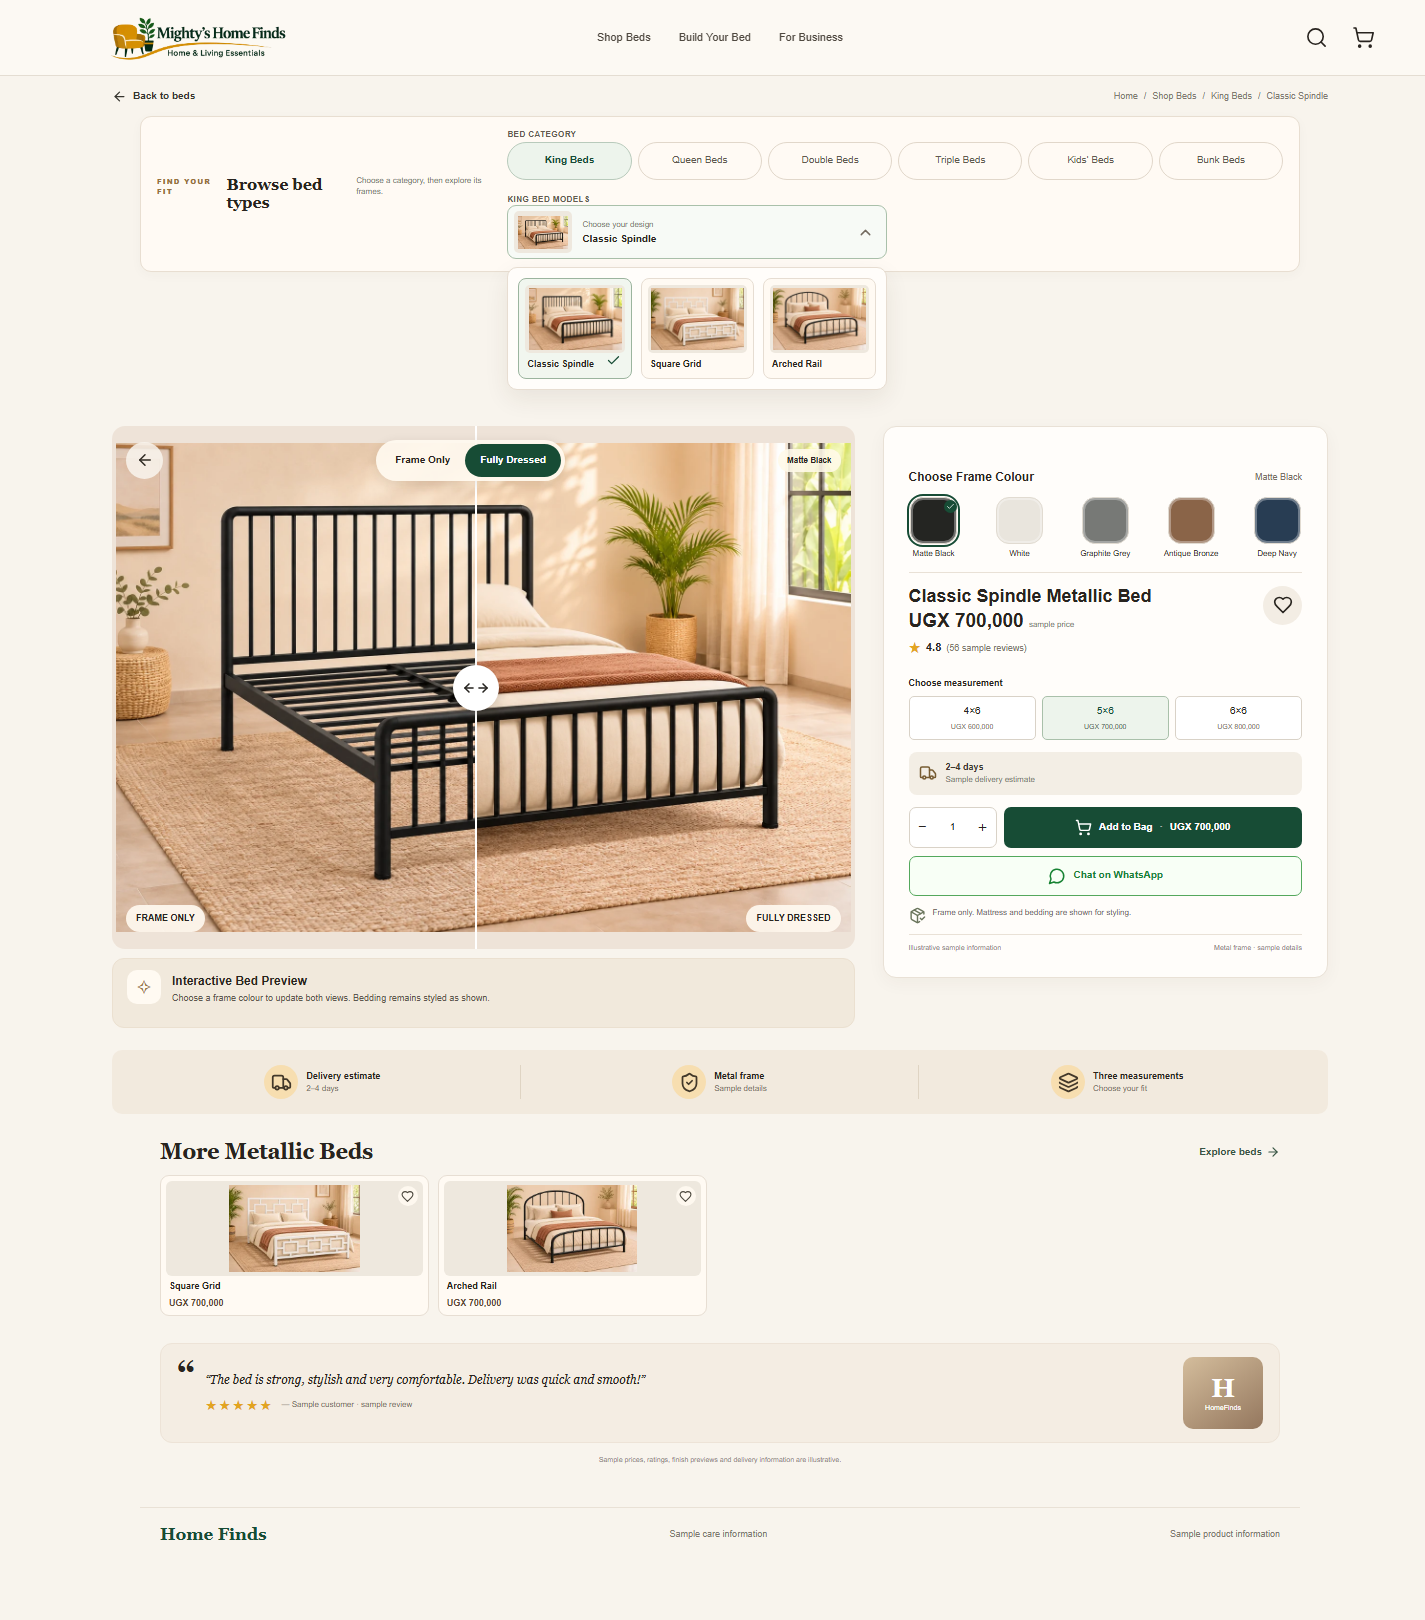
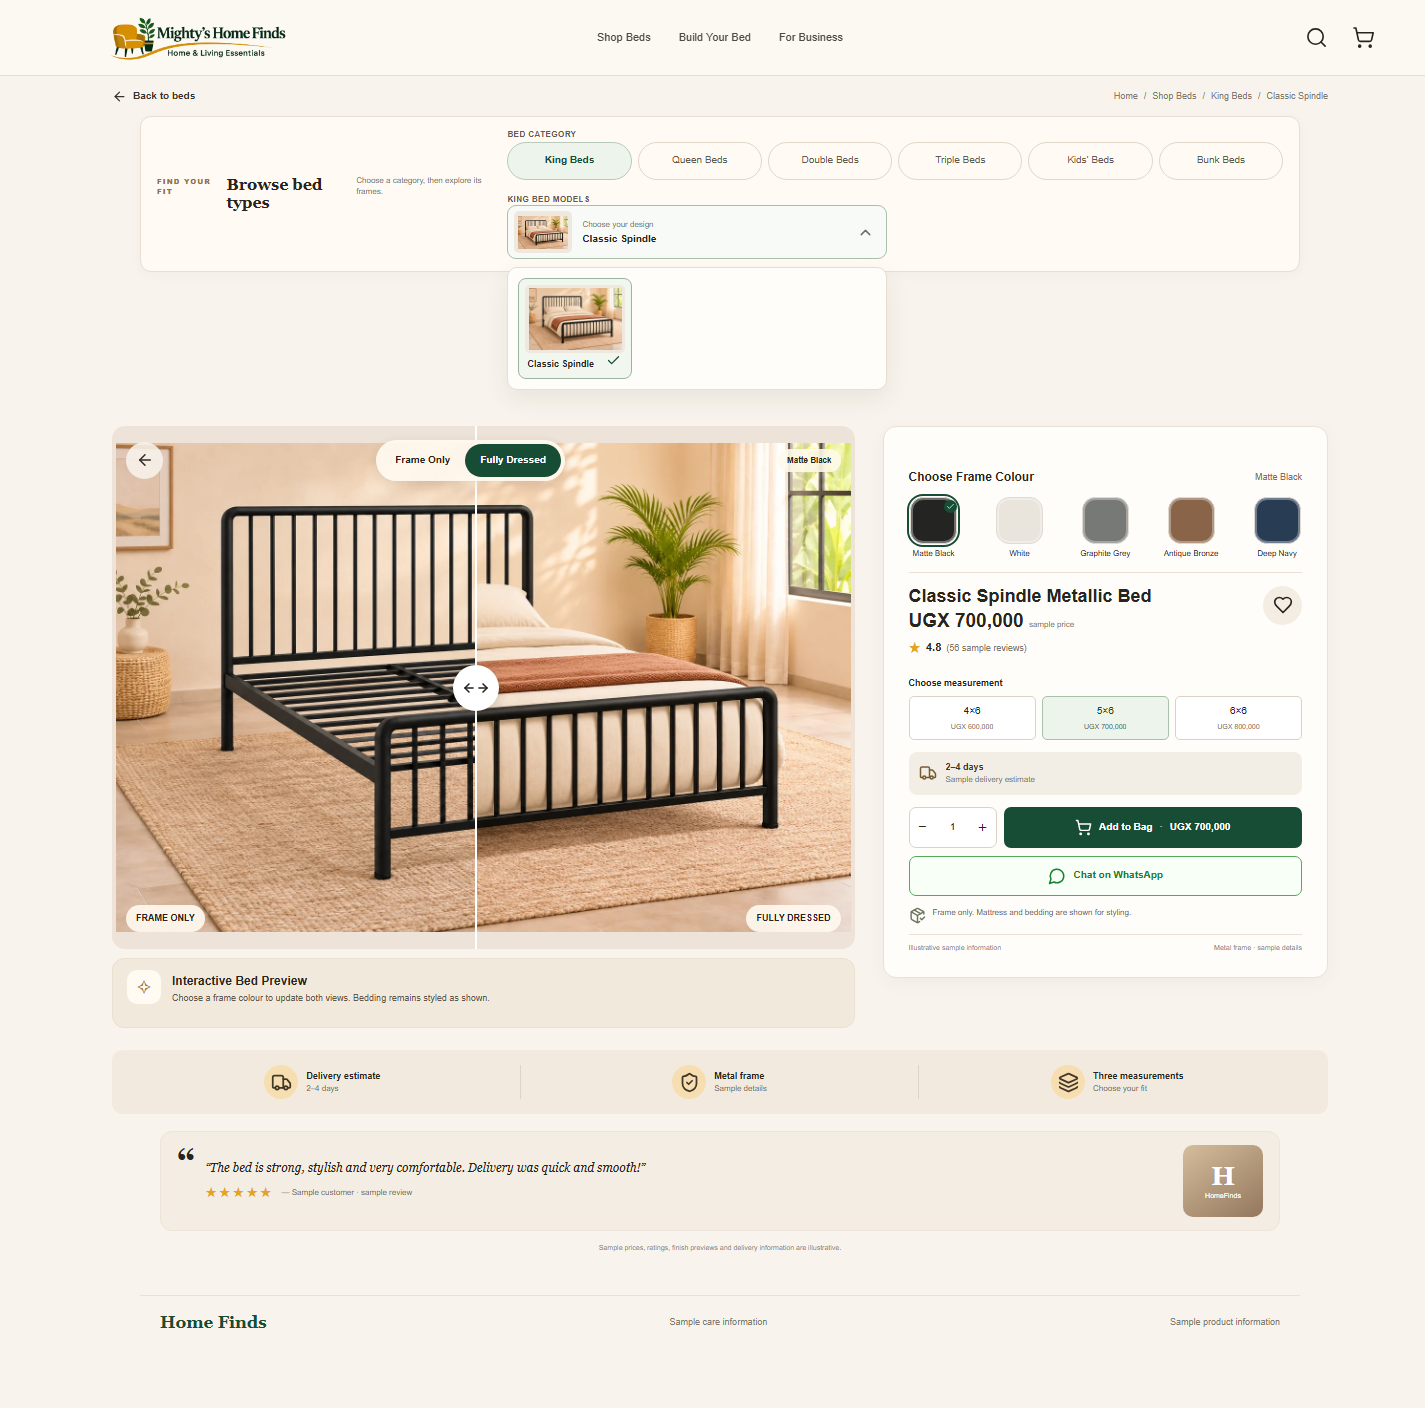
Polish bed configurator and add double bed model

diff --git a/lib/sample-data.ts b/lib/sample-data.ts
@@ -35,10 +35,9 @@ export const bedMeasurements = [
 export type BedMeasurementId = (typeof bedMeasurements)[number]["id"];
 export const DEFAULT_BED_MEASUREMENT: BedMeasurementId = "5x6";
 export const bedMeasurementPrice = (id: BedMeasurementId) =>
-  bedMeasurements.find((item) => item.id === id)?.price ??
-  bedMeasurements[1].price;
+  bedMeasurements.find((item) => item.id === id)?.price ?? bedMeasurements[1].price;
 
-// Every displayed product detail below is illustrative prototype content.
+// All customer-facing product and commercial details in this file are sample content.
 export const sampleFinishes: Finish[] = [
   { id: "matte-black", name: "Matte Black", hex: "#242522" },
   { id: "white", name: "White", hex: "#e9e5dd" },
@@ -58,11 +57,7 @@ export const products: BedProduct[] = [
     reviews: 56,
     description: "A timeless vertical-rail silhouette with clean, airy lines.",
     frame: getCatalogVariantImage("classic-spindle", "matte-black", "frame"),
-    dressed: getCatalogVariantImage(
-      "classic-spindle",
-      "matte-black",
-      "dressed",
-    ),
+    dressed: getCatalogVariantImage("classic-spindle", "matte-black", "dressed"),
     image: getCatalogVariantImage("classic-spindle", "matte-black", "dressed"),
     configuratorDesign: "classic-spindle",
     colorName: "Matte Black",
@@ -99,11 +94,10 @@ export const products: BedProduct[] = [
     slug: "arched-rail",
     name: "Arched Rail Metallic Bed",
     shortName: "Arched Rail",
-    category: "Bunk Beds",
+    category: "Double Beds",
     rating: "4.8",
     reviews: 41,
-    description:
-      "Softly curved rails bring a graceful touch to this sample design.",
+    description: "Softly curved rails bring a graceful touch to this sample design.",
     frame: getCatalogVariantImage("arched-rail", "matte-black", "frame"),
     dressed: getCatalogVariantImage("arched-rail", "matte-black", "dressed"),
     image: getCatalogVariantImage("arched-rail", "matte-black", "dressed"),
@@ -116,6 +110,27 @@ export const products: BedProduct[] = [
     care: "Sample care information",
     alt: "Arched rail bed frame shown with sample bedding",
   },
+  {
+    id: "double-lowline",
+    slug: "double-lowline",
+    name: "Lowline Platform Double Bed",
+    shortName: "Lowline Platform",
+    category: "Double Beds",
+    rating: "4.8",
+    reviews: 24,
+    description: "A low, broad horizontal-rail frame with a distinct profile.",
+    frame: getCatalogVariantImage("double-lowline", "matte-black", "frame"),
+    dressed: getCatalogVariantImage("double-lowline", "matte-black", "dressed"),
+    image: getCatalogVariantImage("double-lowline", "matte-black", "dressed"),
+    configuratorDesign: "double-lowline",
+    colorName: "Matte Black",
+    finishes: sampleFinishes,
+    delivery: "2\u20134 days",
+    included: "Frame only. Mattress and bedding are shown for styling.",
+    material: "Metal frame \u00B7 sample details",
+    care: "Sample care information",
+    alt: "Lowline platform double bed with broad horizontal metal rails",
+  },
 ];
 
 export const categories = [
@@ -124,7 +139,7 @@ export const categories = [
     name: "King Beds",
     chipLabel: "King Beds",
     href: "/products/classic-spindle?category=king-beds",
-    modelIds: ["classic", "queen", "bunk"],
+    modelIds: ["classic"],
     defaultProductId: "classic",
     modelHeading: "King Bed Models",
     image: "/assets/category-media/king-beds.png",
@@ -136,7 +151,7 @@ export const categories = [
     name: "Queen Beds",
     chipLabel: "Queen Beds",
     href: "/products/square-grid?category=queen-beds",
-    modelIds: ["queen", "classic", "bunk"],
+    modelIds: ["queen"],
     defaultProductId: "queen",
     modelHeading: "Queen Bed Models",
     image: "/assets/category-media/queen-beds.png",
@@ -147,9 +162,9 @@ export const categories = [
     slug: "double-beds",
     name: "Double Beds",
     chipLabel: "Double Beds",
-    href: "/products/classic-spindle?category=double-beds",
-    modelIds: ["classic", "queen"],
-    defaultProductId: "classic",
+    href: "/products/double-lowline?category=double-beds",
+    modelIds: ["double-lowline", "bunk"],
+    defaultProductId: "double-lowline",
     modelHeading: "Double Bed Models",
     image: "/assets/category-media/double-beds-1.png",
     alternateImage: "/assets/category-media/double-beds-2.png",
@@ -159,20 +174,20 @@ export const categories = [
     slug: "triple-beds",
     name: "Triple Beds",
     chipLabel: "Triple Beds",
-    href: "/products/arched-rail?category=triple-beds",
-    modelIds: ["bunk", "queen"],
-    defaultProductId: "bunk",
+    href: "/products/classic-spindle?category=triple-beds",
+    modelIds: [],
+    defaultProductId: "classic",
     modelHeading: "Triple Bed Models",
     image: "/assets/category-media/triple-beds-1.png",
     alternateImage: "/assets/category-media/triple-beds-2.png",
-    alt: "Generated three-sleeper triple-bunk category concept; illustrative only",
+    alt: "Generated triple-bed concept image; illustrative only",
   },
   {
     slug: "kids-beds",
     name: "Kids\u2019 Beds",
     chipLabel: "Kids\u2019 Beds",
-    href: "/products/arched-rail?category=kids-beds",
-    modelIds: ["classic", "bunk"],
+    href: "/products/classic-spindle?category=kids-beds",
+    modelIds: [],
     defaultProductId: "classic",
     modelHeading: "Kids\u2019 Bed Models",
     image: "/assets/category-media/kids-beds.png",
@@ -183,15 +198,16 @@ export const categories = [
     slug: "bunk-beds",
     name: "Bunk Beds",
     chipLabel: "Bunk Beds",
-    href: "/products/arched-rail?category=bunk-beds",
-    modelIds: ["bunk", "queen", "classic"],
-    defaultProductId: "bunk",
+    href: "/products/classic-spindle?category=bunk-beds",
+    modelIds: [],
+    defaultProductId: "classic",
     modelHeading: "Bunk Bed Models",
     image: "/assets/category-media/bunk-beds.png",
     alternateImage: "/assets/category-media/bunk-beds-2.png",
     alt: "Generated two-level bunk bed category concept",
   },
 ] as const;
+
 export const benefits = [
   { icon: "truck", title: "Delivery", detail: "2\u20134 days" },
   { icon: "shield", title: "Strong & Durable", detail: "Metal frame" },
@@ -200,13 +216,10 @@ export const benefits = [
 ];
 
 export const sampleReview = {
-  quote:
-    "The bed is strong, stylish and very comfortable. Delivery was quick and smooth!",
+  quote: "The bed is strong, stylish and very comfortable. Delivery was quick and smooth!",
   author: "Sample customer",
   stars: 5,
 };
 
 export const formatUGX = (amount: number) =>
   `UGX ${amount.toLocaleString("en-UG")}`;
-
-

diff --git a/components/product-experience.tsx b/components/product-experience.tsx
@@ -34,6 +34,10 @@ import {
 import { getCatalogVariantImage, type FinishId } from "@/lib/bed-color-variants";
 
 type ViewMode = "compare" | "frame" | "dressed";
+const categoryHasModel = (
+  category: (typeof categories)[number],
+  productId: string,
+) => (category.modelIds as readonly string[]).includes(productId);
 
 export function ProductExperience({
   product: initialProduct,
@@ -47,6 +51,14 @@ export function ProductExperience({
   const { addItem } = useCart();
   const [productId, setProductId] = useState(initialProduct.id);
   const [activeCategorySlug, setActiveCategorySlug] = useState(categorySlug);
+  const [categoryUnavailable, setCategoryUnavailable] = useState(() => {
+    const initialCategory = categories.find(
+      (item) => item.slug === categorySlug,
+    );
+    return Boolean(
+      initialCategory && !categoryHasModel(initialCategory, initialProduct.id),
+    );
+  });
   const product =
     products.find((item) => item.id === productId) ?? initialProduct;
   const activeCategory =
@@ -81,6 +93,7 @@ export function ProductExperience({
   const modelChoices = activeCategory.modelIds
     .map((id) => products.find((item) => item.id === id))
     .filter((item): item is BedProduct => Boolean(item));
+  const relatedModels = modelChoices.filter((item) => item.id !== product.id);
   const unitPrice = bedMeasurementPrice(selectedMeasurement);
   const total = unitPrice * quantity;
   function selectModel(
@@ -93,6 +106,7 @@ export function ProductExperience({
       ) ?? nextProduct.finishes[0];
     setActiveCategorySlug(nextCategorySlug);
     setProductId(nextProduct.id);
+    setCategoryUnavailable(false);
     setFinishId(nextFinish.id);
     setQuantity(1);
     setDesignPickerOpen(false);
@@ -103,7 +117,13 @@ export function ProductExperience({
     const category = categories.find((item) => item.slug === slug);
     if (!category) return;
     const next = products.find((item) => item.id === category.defaultProductId);
-    if (next) selectModel(next, category.slug);
+    if (next && categoryHasModel(category, next.id)) {
+      selectModel(next, category.slug);
+      return;
+    }
+    setActiveCategorySlug(category.slug);
+    setCategoryUnavailable(true);
+    setDesignPickerOpen(false);
   }
   function addToCart() {
     addItem({
@@ -166,6 +186,11 @@ export function ProductExperience({
           </div>
           <div className="bed-selector-group model-selector">
             <strong>{activeCategory.modelHeading}</strong>
+            {modelChoices.length === 0 ? (
+              <p className="category-models-unavailable">
+                Matched bed previews for this category are being prepared.
+              </p>
+            ) : (
             <div className="design-picker">
               <button
                 type="button"
@@ -208,8 +233,21 @@ export function ProductExperience({
                 </div>
               )}
             </div>
+            )}
           </div>
         </section>
+        {categoryUnavailable ? (
+          <section className="category-preview-unavailable" aria-live="polite">
+            <span className="preview-placeholder-icon"><Layers3 size={23} /></span>
+            <h1>{activeCategory.name}</h1>
+            <p>
+              We don’t yet have category-matched frame-only and dressed preview
+              images for this bed type. Choose King, Queen, or Double to explore
+              the available sample bed designs.
+            </p>
+          </section>
+        ) : (
+          <>
         <section className="product-layout">
           <div className="product-visual-column">
             <div
@@ -473,7 +511,7 @@ export function ProductExperience({
             </p>
           </div>
         </section>
-        <section className="related-section">
+        {relatedModels.length > 0 && <section className="related-section">
           <div className="section-title">
             <h2>More Metallic Beds</h2>
             <Link href="/products/classic-spindle?category=king-beds">
@@ -481,9 +519,7 @@ export function ProductExperience({
             </Link>
           </div>
           <div className="related-row">
-            {products
-              .filter((item) => item.id !== product.id)
-              .map((item) => (
+            {relatedModels.map((item) => (
                 <button
                   type="button"
                   onClick={() =>
@@ -509,7 +545,7 @@ export function ProductExperience({
                 </button>
               ))}
           </div>
-        </section>
+        </section>}
         <section className="review-card">
           <div className="review-quote-mark">“</div>
           <div className="review-copy">
@@ -528,10 +564,12 @@ export function ProductExperience({
           Sample prices, ratings, finish previews and delivery information are
           illustrative.
         </div>
+          </>
+        )}
       </main>
       <footer className="site-footer">
         <Link href="/">Home Finds</Link>
-        <span>{product.care}</span>
+        <span>{categoryUnavailable ? "Sample category previews" : product.care}</span>
         <span>Sample product information</span>
       </footer>
       <MobileNav />

diff --git a/lib/bed-color-variants.ts b/lib/bed-color-variants.ts
@@ -1,9 +1,9 @@
-export type BedDesignId = "classic-spindle" | "square-grid" | "arched-rail";
+export type BedDesignId = "classic-spindle" | "square-grid" | "arched-rail" | "double-lowline";
 export type FinishId = "matte-black" | "white" | "graphite-grey" | "antique-bronze" | "deep-navy";
 export type BedImageState = "frame" | "dressed";
 
 /** Exact generated sample paths; every state and finish uses its corresponding image asset. */
-export const bedCatalogVariants: Record<BedDesignId, Record<FinishId, Record<BedImageState, string>>> = {
+export const bedCatalogVariants: Record<Exclude<BedDesignId, "double-lowline">, Record<FinishId, Record<BedImageState, string>>> = {
   "classic-spindle": {
     "matte-black": { frame: "classic-spindle-matte-black-frame.webp", dressed: "classic-spindle-matte-black-dressed.webp" },
     white: { frame: "classic-spindle-white-frame.webp", dressed: "classic-spindle-white-dressed.webp" },
@@ -27,5 +27,9 @@ export const bedCatalogVariants: Record<BedDesignId, Record<FinishId, Record<Bed
   },
 };
 
-export const getCatalogVariantImage = (design: BedDesignId, finish: FinishId, state: BedImageState) =>
-  `/assets/bed-catalog-variants/${bedCatalogVariants[design][finish][state]}`;
+export const getCatalogVariantImage = (design: BedDesignId, finish: FinishId, state: BedImageState) => {
+  if (design === "double-lowline") {
+    return `/assets/bed-catalog-variants/double-lowline-${finish}-${state}.png`;
+  }
+  return `/assets/bed-catalog-variants/${bedCatalogVariants[design][finish][state]}`;
+};

diff --git a/app/globals.css b/app/globals.css
@@ -266,4 +266,10 @@ body.cart-drawer-open { overflow: hidden; }
 }
 .category-photo{isolation:isolate}
 .category-concept-badge{position:absolute;z-index:2;left:7px;top:7px;padding:4px 7px;border:1px solid #fff9;border-radius:12px;background:#fffaf0e8;color:#5b482f;font-size:7px;font-weight:700;letter-spacing:.25px;text-transform:uppercase}
+.category-models-unavailable{margin:0;max-width:380px;padding:12px 14px;border:1px dashed #d5c9b8;border-radius:9px;background:#f8f3ea;color:#6b6256;font-size:10px;line-height:1.45}
+.category-preview-unavailable{max-width:1160px;min-height:260px;margin:0 auto 24px;padding:42px 24px;display:grid;place-items:center;align-content:center;text-align:center;border:1px solid #e7ddd1;border-radius:12px;background:linear-gradient(140deg,#fffaf3,#f2ebdf);color:#51483c}
+.preview-placeholder-icon{width:48px;height:48px;display:grid;place-items:center;border-radius:50%;background:#e9ddc9;color:#7b5b2e}
+.category-preview-unavailable h1{margin:13px 0 5px;font:600 27px/1.15 var(--serif);color:var(--espresso)}
+.category-preview-unavailable p{max-width:470px;margin:0;font-size:12px;line-height:1.6;color:#766e64}
+@media(max-width:760px){.category-preview-unavailable{min-height:230px;margin:0 12px 24px;padding:28px 20px}.category-preview-unavailable h1{font-size:23px}.category-preview-unavailable p{font-size:11px}}
 

diff --git a/public/assets/bed-catalog-variants/README.md b/public/assets/bed-catalog-variants/README.md
@@ -5,3 +5,5 @@ Prototype image set mirrored from `plan/assets/bed-catalog-variants/`.
 There are three designs (`classic-spindle`, `square-grid`, `arched-rail`), five finishes (`matte-black`, `white`, `graphite-grey`, `antique-bronze`, `deep-navy`), and two separate states (`frame`, `dressed`). Use filenames in the form `<design>-<finish>-<state>.webp` and load the matching pair for each selection.
 
 These are generated concept images. Confirm product representation against real Home Finds stock before launch. See `plan/HOMEFINDS-PLAN.md` for the upload-more-designs workflow.
+
+The Double category also uses a distinct `double-lowline` horizontal-rail concept. Its matched frame and dressed PNG files are available in all five finishes using the same `<design>-<finish>-<state>.png` pattern. This is generated concept imagery, not a verified Home Finds product.

diff --git a/plan/assets/bed-catalog-variants/README.md b/plan/assets/bed-catalog-variants/README.md
@@ -26,3 +26,7 @@ Use the separate image files for the Frame Only/Fully Dressed toggle or comparis
 These are generated visual samples for prototype structure. Verify each design/finish against actual inventory before presenting it as a purchasable Home Finds product.
 
 For the planned staff workflow to add more designs, see `plan/HOMEFINDS-PLAN.md` under “Adding more bed designs.”
+
+## Additional Double bed concept
+
+The Double category includes a visibly distinct `double-lowline` design with three broad horizontal headboard rails. Its separate frame-only and dressed PNG pairs for all five finishes are in `public/assets/bed-catalog-variants/`. This generated sample is concept imagery, not a verified Home Finds product.
